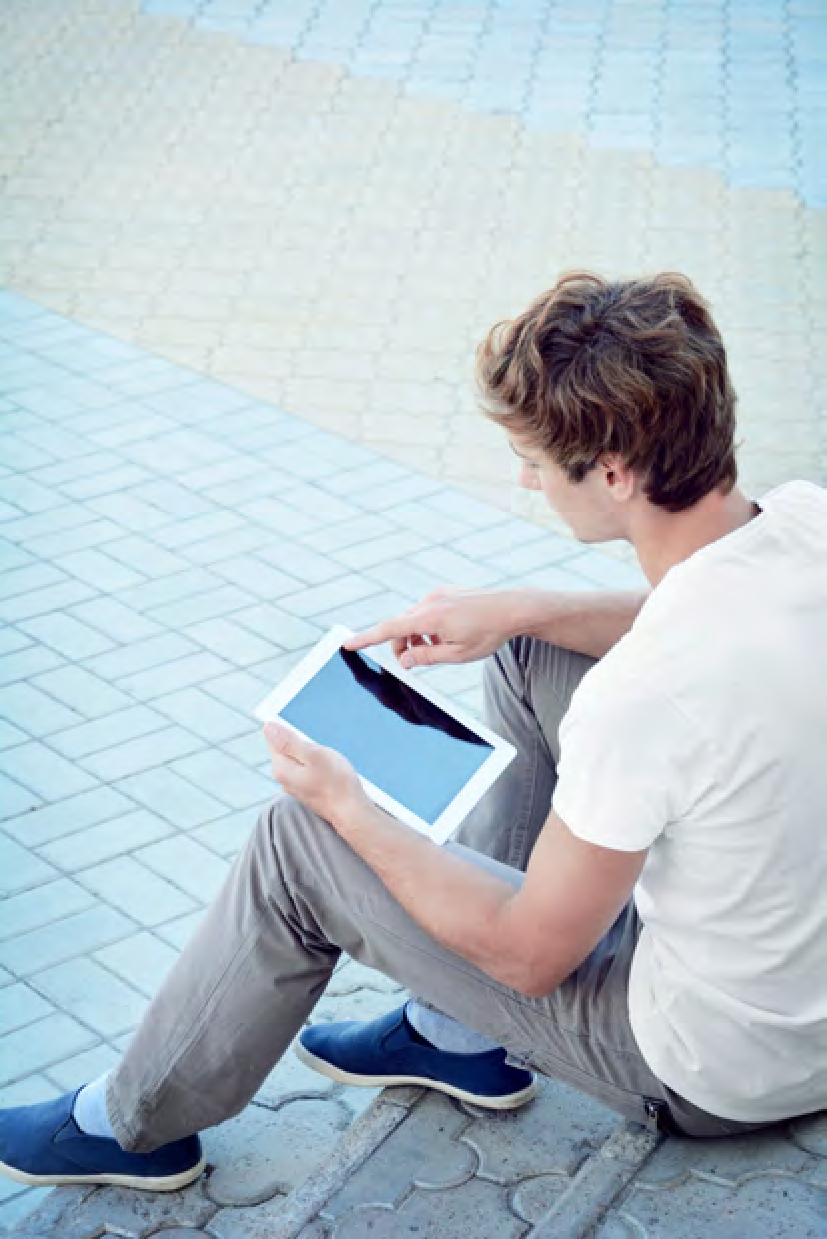
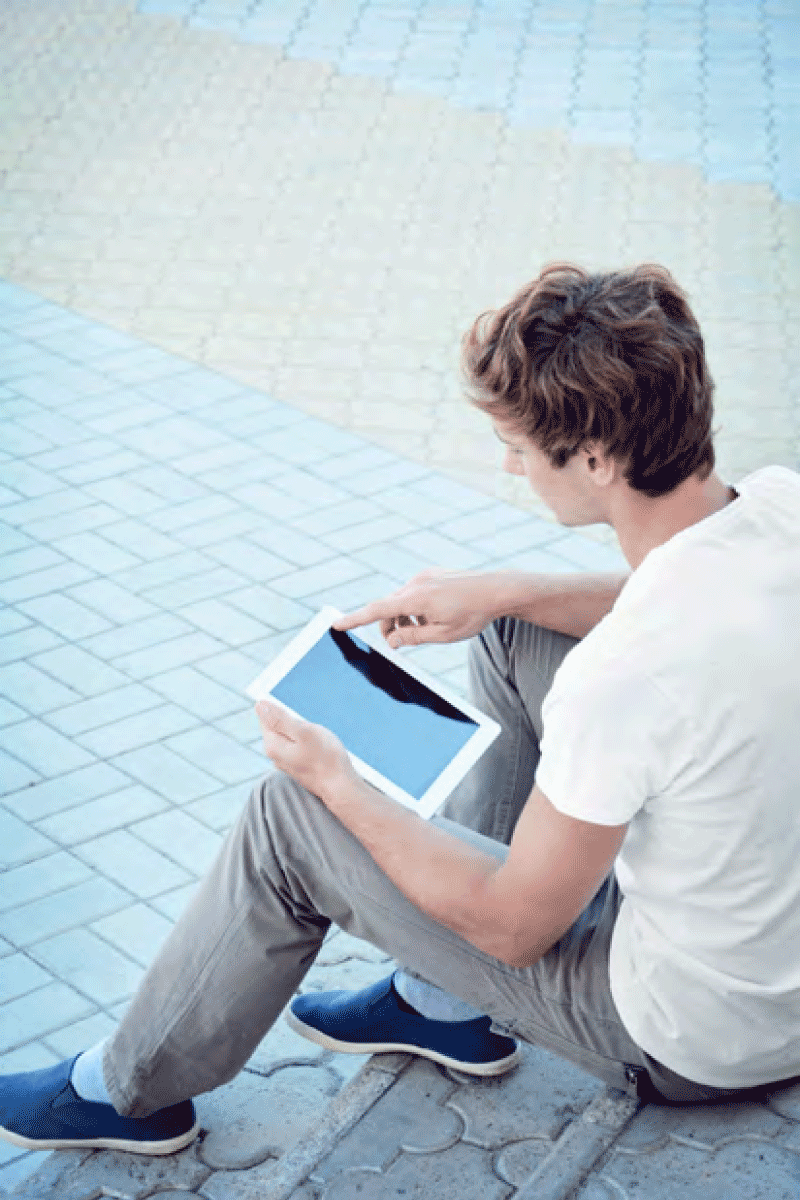
Fixed image files, resized all images associated with the files

diff --git a/app/Products.js b/app/Products.js
@@ -39,7 +39,7 @@ class Products extends Component {
             <View style={productsStyles.productViewContainerRow}>
               <View style={productsStyles.productContainer}>
                 <Image source={require('../img/shop-gallery/sample-image-3.png')} style={productsStyles.productImage}>
-                  <Image source={require('../img/points-container.png')} style={productsStyles.pointsContainer}>
+                  <Image source={require('../img/shop-points-container.png')} style={productsStyles.pointsContainer}>
                     <Text style={productsStyles.points}>500</Text>
                   </Image>
                   <Text style={productsStyles.productTitle}>Deal Title</Text>
@@ -56,7 +56,7 @@ class Products extends Component {
             <View style={productsStyles.productViewContainerRow}>
               <View style={productsStyles.productContainer}>
                 <Image source={require('../img/shop-gallery/sample-image-2.png')} style={productsStyles.productImage}>
-                  <Image source={require('../img/points-container.png')} style={productsStyles.pointsContainer}>
+                  <Image source={require('../img/shop-points-container.png')} style={productsStyles.pointsContainer}>
                     <Text style={productsStyles.points}>500</Text>
                   </Image>
                   <Text style={productsStyles.productTitle}>Deal Title</Text>
@@ -73,7 +73,7 @@ class Products extends Component {
             <View style={productsStyles.productViewContainerRow}>
               <View style={productsStyles.productContainer}>
                 <Image source={require('../img/shop-gallery/sample-image-1.png')} style={productsStyles.productImage}>
-                  <Image source={require('../img/points-container.png')} style={productsStyles.pointsContainer}>
+                  <Image source={require('../img/shop-points-container.png')} style={productsStyles.pointsContainer}>
                     <Text style={productsStyles.points}>500</Text>
                   </Image>
                   <Text style={productsStyles.productTitle}>Deal Title</Text>
@@ -90,7 +90,7 @@ class Products extends Component {
             <View style={productsStyles.productViewContainerRow}>
               <View style={productsStyles.productContainer}>
                 <Image source={require('../img/shop-gallery/sample-image-2.png')} style={productsStyles.productImage}>
-                  <Image source={require('../img/points-container.png')} style={productsStyles.pointsContainer}>
+                  <Image source={require('../img/shop-points-container.png')} style={productsStyles.pointsContainer}>
                     <Text style={productsStyles.points}>500</Text>
                   </Image>
                   <Text style={productsStyles.productTitle}>Deal Title</Text>

diff --git a/app/BusinessPage.js b/app/BusinessPage.js
@@ -80,15 +80,15 @@ class BusinessPage extends Component {
 
           <View style={PageStyles.contactContainer}>
             <View style={PageStyles.contactRow}>
-              <Image style={PageStyles.icon} resizeMode="contain" source={require('../img/email-icon-sm.png')}/>
+              <Image style={PageStyles.icon} resizeMode="contain" source={require('../img/email-icon.png')}/>
               <Text style={PageStyles.grayText}>{this.props.business_info.sponsor_email}</Text>
             </View>
             <View style={PageStyles.contactRow}>
-              <Image style={PageStyles.icon} resizeMode="contain" source={require('../img/phone-icon-sm.png')}/>
+              <Image style={PageStyles.icon} resizeMode="contain" source={require('../img/phone-icon.png')}/>
               <Text style={PageStyles.grayText}>{this.props.business_info.sponsor_tel}</Text>
             </View>
             <View style={PageStyles.contactRow}>
-              <Image style={PageStyles.icon} resizeMode="contain" source={require('../img/website-icon-sm.png')}/>
+              <Image style={PageStyles.icon} resizeMode="contain" source={require('../img/website-icon.png')}/>
               <Text style={PageStyles.grayText}>{this.props.business_info.sponsor_url}</Text>
             </View>
           </View>

diff --git a/app/SplashPage.js b/app/SplashPage.js
@@ -1,5 +1,4 @@
 'use strict';
-
 var React = require('react-native');
 var {
   Component,
@@ -66,7 +65,7 @@ class SplashPage extends Component {
       <View>
 
         <View style={splashStyle.bgContainer}>
-            <Image style={splashStyle.background} resizeMode="cover" source={require('../img/splash-bg-sm.png')} />
+            <Image style={splashStyle.background} resizeMode="cover" source={require('../img/splash-bg.jpg')} />
         </View>
 
         <View style={splashStyle.container}>      
@@ -106,8 +105,8 @@ var splashStyle = StyleSheet.create({
     alignItems: 'center'
   },
   hex: {
-    width: width*.95,
-    height: height*.82,
+    width: width*.85,
+    height: height*.70,
     alignItems: 'stretch',
   },
   pointcontainer :{

diff --git a/app/Deals.js b/app/Deals.js
@@ -209,14 +209,14 @@ const shopStyles = StyleSheet.create({
     borderColor: '#000',
   },
   search: {
-    padding: height*.035,
+    padding: 20,
     elevation: 2,
     width: width*.72,
     backgroundColor: '#fff',
     fontFamily: 'Gill Sans',
     borderColor: '#F0BB1A',
     borderWidth: 1,
-    borderRadius: 25,
+    borderRadius: 22,
   },
   businessDirectoryContainer: {
     flexDirection: 'row',

diff --git a/app/Register.js b/app/Register.js
@@ -82,7 +82,7 @@ class Register extends Component {
       <View>
 
           <View style={registerStyles.bgContainer}>
-              <Image style={registerStyles.background} source={require('../img/splash-bg-sm.png')} />
+              <Image style={registerStyles.background} source={require('../img/splash-bg.jpg')} />
           </View>
 
         <View style={registerStyles.container} marginTop={30}>

diff --git a/app/LoginPage.js b/app/LoginPage.js
@@ -43,7 +43,7 @@ class LoginPage extends Component {
         <View>
 
           <View style={loginStyles.bgContainer}>
-              <Image style={loginStyles.background} source={require('../img/splash-bg-sm.png')} />
+              <Image style={loginStyles.background} source={require('../img/splash-bg.jpg')} />
           </View>
 
           <View style={loginStyles.container} marginTop={50}>

diff --git a/app/InfoPage.js b/app/InfoPage.js
@@ -91,7 +91,7 @@ class InfoPage extends Component {
 
     //console.log('state');
     //console.log('renderScene state:',this.state);
-    var src = require('../img/logo.png');
+    var src = require('../img/ClubAppetiteLogo.png');
     if(this.state.logo != ''){
       src = {uri:this.state.logo}
     }

diff --git a/app/Messages.js b/app/Messages.js
@@ -93,7 +93,7 @@ class Messages extends Component {
         <Image
           resizeMode="contain" 
           style={MessageStyles.arrow}
-          source={require('../img/NavArrow.png')}
+          source={require('../img/arrow.png')}
         />
       </TouchableOpacity>
     );

diff --git a/app/BusinessDirectory.js b/app/BusinessDirectory.js
@@ -93,7 +93,7 @@ componentDidMount() {
 				</View>
         <Image
           style={BusinessStyles.arrow}
-          source={require('../img/NavArrow.png')}
+          source={require('../img/arrow.png')}
         />
   		</TouchableOpacity>
   	);

diff --git a/app/Profile.js b/app/Profile.js
@@ -95,7 +95,7 @@ const profileStyles = StyleSheet.create({
   container: {
     flex: 1,
     alignItems: 'center',
-    marginTop: 70,
+    marginTop: 60,
     backgroundColor: '#1d888a',
   },
   header: {
